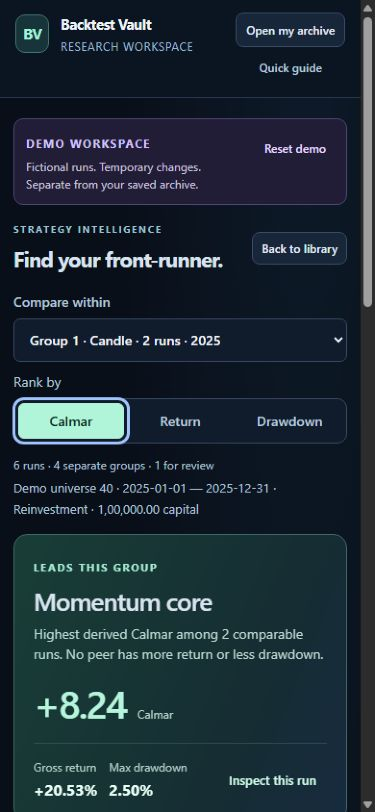
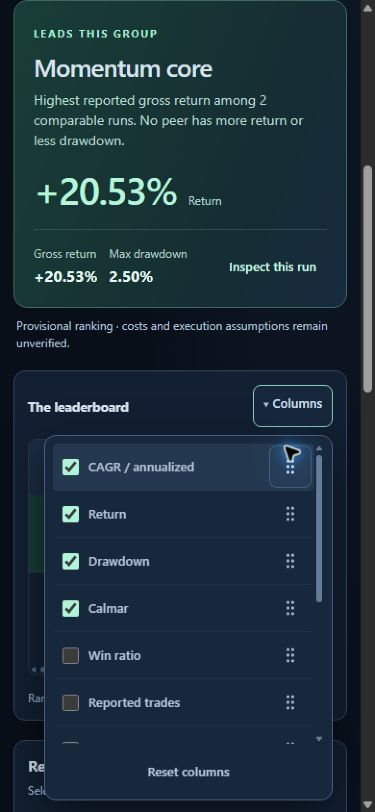
Simplify comparison controls and add mouse drag column ordering

diff --git a/dist/intelligence-ui.js b/dist/intelligence-ui.js
@@ -10,6 +10,74 @@ const measures={calmar:{label:'Calmar',kind:'number',direction:'Higher is better
 const nameOf=x=>x.run.name||x.run.id;
 const num=(value,kind='number',signed=false)=>cell(value,kind,signed).text;
 function disclosure(title,id){const d=el('details');d.id=id;d.append(el('summary',title));return d;}
+function picker(title,id){
+ const d=disclosure(title,id);d.className='compact-picker';const summary=d.firstChild;summary.id=id+'-toggle';
+ d.onkeydown=e=>{if(e.key==='Escape'){e.preventDefault();d.open=false;summary.focus({preventScroll:true});}};
+ d.onfocusout=e=>{if(e.relatedTarget&&!d.contains(e.relatedTarget))d.open=false;};
+ d.addEventListener('toggle',()=>{
+  if(!d.open)return;const panel=d.querySelector('.picker-panel'),r=summary.getBoundingClientRect(),below=innerHeight-r.bottom-16,above=r.top-16;
+  const upward=below<Math.min(panel.scrollHeight,420)&&above>below;panel.classList.toggle('opens-up',upward);panel.style.setProperty('--menu-room',Math.max(140,upward?above:below)+'px');
+ });
+ return d;
+}
+document.addEventListener('pointerdown',e=>{document.querySelectorAll('.compact-picker[open]').forEach(d=>{if(!d.contains(e.target))d.open=false;});});
+function grip(){
+ // Lucide grip-vertical, ISC; attribution is included in LICENSE.
+ const svg=document.createElementNS('http://www.w3.org/2000/svg','svg');
+ for(const [k,v] of Object.entries({viewBox:'0 0 24 24',width:20,height:20,fill:'none',stroke:'currentColor','stroke-width':2,'stroke-linecap':'round','stroke-linejoin':'round','aria-hidden':'true'}))svg.setAttribute(k,v);
+ for(const [x,y] of [[9,12],[9,5],[9,19],[15,12],[15,5],[15,19]]){const c=document.createElementNS(svg.namespaceURI,'circle');c.setAttribute('cx',x);c.setAttribute('cy',y);c.setAttribute('r','1');svg.append(c);}return svg;
+}
+let cancelColumnDrag=null;
+function columnDrag(handle,{key,axis,peers,scroller,commit}){
+ let suppressClick=false;
+ handle.addEventListener('click',e=>{if(suppressClick){suppressClick=false;if(e.detail>0){e.preventDefault();e.stopImmediatePropagation();}}},true);
+ handle.onpointerdown=e=>{
+  if(e.button!==0||e.isPrimary===false||(axis==='x'&&e.pointerType==='touch'))return;
+  cancelColumnDrag?.();suppressClick=false;
+  const controller=new AbortController(),options={signal:controller.signal},source=peers().find(n=>n.dataset.column===key),start={x:e.clientX,y:e.clientY};
+  let active=false,ghost=null,marker=null,frame=0,last=e,before=undefined,valid=false;
+  const rect=()=>scroller.getBoundingClientRect(),coordinate=p=>axis==='x'?p.clientX:p.clientY;
+  const clean=()=>{controller.abort();if(frame)cancelAnimationFrame(frame);ghost?.remove();marker?.remove();source.classList.remove('column-drag-source');document.body.classList.remove('column-dragging');if(scroller.hasPointerCapture?.(e.pointerId))scroller.releasePointerCapture(e.pointerId);cancelColumnDrag=null;};
+  const finish=(save=false)=>{
+   const changed=active&&valid,anchor=before;clean();
+   if(active)suppressClick=true;
+   if(save&&changed)commit(anchor);
+  };
+  cancelColumnDrag=()=>finish();
+  function position(){
+   if(!active)return;
+   const bounds=rect(),p=coordinate(last),nodes=peers().filter(n=>n!==source),cross=axis==='x'?last.clientY:last.clientX;
+   const hit=axis==='x'?source.getBoundingClientRect():bounds;
+   valid=cross>=(axis==='x'?hit.top:hit.left)-24&&cross<=(axis==='x'?hit.bottom:hit.right)+24&&p>=(axis==='x'?bounds.left:bounds.top)-40&&p<=(axis==='x'?bounds.right:bounds.bottom)+40;
+   const target=nodes.find(n=>{const r=n.getBoundingClientRect();return p<(axis==='x'?r.left+r.width/2:r.top+r.height/2);});
+   before=target?.dataset.column||null;
+   const edge=(target||nodes.at(-1))?.getBoundingClientRect();marker.hidden=!valid||!edge;
+   if(edge){const at=target?(axis==='x'?edge.left:edge.top):(axis==='x'?edge.right:edge.bottom);Object.assign(marker.style,axis==='x'?{left:at+'px',top:source.getBoundingClientRect().top+'px',height:source.getBoundingClientRect().height+'px',width:'3px'}:{left:bounds.left+'px',top:at+'px',width:bounds.width+'px',height:'3px'});}
+   ghost.style.left=Math.min(Math.max(8,last.clientX-(axis==='x'?30:ghost.offsetWidth-22)),innerWidth-ghost.offsetWidth-8)+'px';ghost.style.top=(last.clientY-22)+'px';
+  }
+  function autoScroll(){
+   if(!active)return;
+   const r=rect(),p=coordinate(last),lo=axis==='x'?r.left:r.top,hi=axis==='x'?r.right:r.bottom;
+   const speed=valid?(p<lo+32?-Math.min(14,(lo+32-p)/3):p>hi-32?Math.min(14,(p-hi+32)/3):0):0;
+   if(speed){if(axis==='x')scroller.scrollLeft+=speed;else scroller.scrollTop+=speed;position();}
+   frame=requestAnimationFrame(autoScroll);
+  }
+  window.addEventListener('pointermove',p=>{
+   if(p.pointerId!==e.pointerId)return;last=p;
+   if(!active&&Math.hypot(p.clientX-start.x,p.clientY-start.y)<7)return;
+   if(!active){active=true;scroller.setPointerCapture?.(e.pointerId);source.classList.add('column-drag-source');document.body.classList.add('column-dragging');
+    ghost=el('div',source.textContent,'column-drag-ghost');ghost.setAttribute('aria-hidden','true');ghost.style.width=(axis==='x'?Math.max(120,source.getBoundingClientRect().width):source.getBoundingClientRect().width)+'px';
+    marker=el('div',undefined,'column-drop-marker');marker.setAttribute('aria-hidden','true');document.body.append(ghost,marker);frame=requestAnimationFrame(autoScroll);
+   }
+   p.preventDefault();position();
+  },{...options,passive:false});
+  window.addEventListener('pointerup',p=>{if(p.pointerId===e.pointerId){last=p;if(active){p.preventDefault();position();}finish(true);}},{...options,passive:false});
+  window.addEventListener('pointercancel',p=>{if(p.pointerId===e.pointerId)finish();},options);
+  scroller.addEventListener('lostpointercapture',()=>finish(),options);
+  window.addEventListener('blur',()=>finish(),options);
+  document.addEventListener('keydown',p=>{if(p.key==='Escape'){p.preventDefault();p.stopImmediatePropagation();finish();}}, {...options,capture:true});
+ };
+}
 const tableColumns=[
  {key:'rank',label:'Rank',numeric:true,value:r=>r.rank,kind:'count',required:true},
  {key:'strategy',label:'Strategy & test conditions',value:r=>nameOf(r.item),required:true},
@@ -33,35 +101,30 @@ function tablePreferences(value){
  const visible=Array.isArray(value?.visible)?value.visible.filter(k=>keys.includes(k)):defaultColumns;
  return {order,visible:[...new Set(['rank','strategy',...visible])]};
 }
-function strategyTable({ordered,basis,all=false,showAll,onOpen,onGroup,onMore,leaders=[],canLead=false,state,onChange}){
+function strategyTable({ordered,basis,all=false,showAll,onOpen,onGroup,onMore,leaders=[],canLead=false,state,onChange,toolbar}){
  const container=el('div',undefined,'strategy-table-tools'),prefs=state.preferences,m=measures[basis],name=all?'All runs ranking':'Strategy ranking';
  const columns=prefs.order.map(key=>tableColumns.find(c=>c.key===key)),shown=columns.filter(c=>prefs.visible.includes(c.key));
- const config=disclosure('Columns · '+shown.length+' of '+columns.length,'strategy-columns');
- config.append(el('p','Choose columns for both comparison views. Move a checked column left or right. Rank and strategy stay visible. '+(state.demo?'Demo choices last until reload.':'Choices are saved on this browser.'),'mini'));
+ const config=picker('Columns','strategy-columns'),panel=el('div',undefined,'picker-panel column-panel');
+ const help=el('p','Drag to reorder. With a handle focused, use Arrow Up or Arrow Down. Rank and strategy stay first.','sr-only');help.id='column-drag-help';panel.append(help);
  const list=el('div',undefined,'column-options');
+ function move(key,before,focusId){
+  const order=prefs.order.filter(k=>k!==key),index=before?order.indexOf(before):order.length;order.splice(Math.max(2,index),0,key);
+  if(order.join()===prefs.order.join())return;
+  prefs.order=order;state.announcement=tableColumns.find(c=>c.key===key).label+' moved.';onChange(focusId,true);
+ }
  columns.filter(c=>!c.required).forEach(c=>{
-  const row=el('div',undefined,'column-option'),label=el('label'),check=el('input');check.type='checkbox';check.id='column-'+c.key;check.checked=prefs.visible.includes(c.key);
+  const row=el('div',undefined,'column-option'),label=el('label'),check=el('input');row.dataset.column=c.key;check.type='checkbox';check.id='column-'+c.key;check.checked=prefs.visible.includes(c.key);
   check.onchange=()=>{prefs.visible=check.checked?[...prefs.visible,c.key]:prefs.visible.filter(k=>k!==c.key);if(!check.checked&&state.sort?.key===c.key)state.sort=null;onChange(check.id,true);};
   label.append(check,el('span',c.label));row.append(label);
-  const index=shown.findIndex(x=>x.key===c.key);
-  for(const [step,text] of [[-1,'Left'],[1,'Right']]){
-   const move=button(text,()=>{
-    const neighbor=shown[index+step].key,a=prefs.order.indexOf(c.key),b=prefs.order.indexOf(neighbor);[prefs.order[a],prefs.order[b]]=[prefs.order[b],prefs.order[a]];
-    onChange('column-'+c.key,true);
-   },'quiet column-move');
-   move.id='column-'+c.key+'-'+text.toLowerCase();move.setAttribute('aria-label','Move '+c.label+' '+text.toLowerCase());
-   move.disabled=index<2||index+step<2||index+step>=shown.length;row.append(move);
-  }
+  const handle=button(undefined,()=>{},'quiet column-grip');handle.id='column-grip-'+c.key;handle.setAttribute('aria-label','Reorder '+c.label);handle.setAttribute('aria-describedby',help.id);handle.append(grip());
+  handle.onkeydown=e=>{const keys=prefs.order.slice(2),i=keys.indexOf(c.key),dest=e.key==='ArrowUp'?i-1:e.key==='ArrowDown'?i+1:e.key==='Home'?0:e.key==='End'?keys.length-1:null;if(dest===null)return;e.preventDefault();if(dest<0||dest>=keys.length||dest===i)return;const rest=keys.filter(k=>k!==c.key);move(c.key,rest[dest]||null,handle.id);};
+  columnDrag(handle,{key:c.key,axis:'y',peers:()=>[...list.children],scroller:list,commit:before=>move(c.key,before,handle.id)});row.append(handle);
   list.append(row);
  });
- config.append(list);const reset=button('Reset columns',()=>{state.preferences=tablePreferences(null);state.sort=null;onChange('columns-reset',true);},'quiet');reset.id='columns-reset';config.append(reset);
- container.append(config);
- const status=el('div',undefined,'table-order'),description=el('p',undefined,'mini');description.id='strategy-table-order';description.setAttribute('role','status');
+ panel.append(list);const reset=button('Reset columns',()=>{state.preferences=tablePreferences(null);state.sort=null;onChange('columns-reset',true);},'quiet');reset.id='columns-reset';panel.append(reset);config.append(panel);toolbar.append(config);
+ const description=el('p',undefined,'sr-only');description.id='strategy-table-order';description.setAttribute('role','status');
  const sortedColumn=tableColumns.find(c=>c.key===state.sort?.key);
- description.textContent=sortedColumn?'Display: '+sortedColumn.label+' · '+state.sort.direction+'. Ranks still use '+m.label+'.':'Display: ranking order · '+m.label+'. Click a column heading to sort.';
- status.append(description);
- if(state.sort){const resetSort=button('Ranking order',()=>{state.sort=null;onChange('strategy-sort-rank');},'quiet');status.append(resetSort);}
- container.append(status,el('p','Scroll sideways for more columns. Missing values stay last.','mini table-scroll-hint'));
+ description.textContent=(state.announcement||'')+' '+(sortedColumn?'Sorted by '+sortedColumn.label+', '+state.sort.direction+'. Ranks use '+m.label+'.':'Ranking order.');state.announcement='';container.append(description);
  const wrap=el('div',undefined,'table-wrap');wrap.tabIndex=0;wrap.setAttribute('role','region');wrap.setAttribute('aria-label',name+' · scrollable table');
  const t=el('table',undefined,'rank-table'+(all?' all-runs-table':''));t.setAttribute('aria-label',name);t.setAttribute('aria-describedby','strategy-table-order');t.dataset.basis=basis;
  t.style.minWidth=((all?320:240)+Math.max(0,shown.length-2)*(all?125:90))+'px';
@@ -71,6 +134,7 @@ function strategyTable({ordered,basis,all=false,showAll,onOpen,onGroup,onMore,le
   const active=state.sort?.key===c.key;th.setAttribute('aria-sort',active?state.sort.direction:!state.sort&&c.key==='rank'?'ascending':'none');
   const sort=button(c.label,()=>{state.sort={key:c.key,direction:active&&state.sort.direction==='ascending'?'descending':'ascending'};onChange('strategy-sort-'+c.key,false,true);},'table-sort');
   sort.id='strategy-sort-'+c.key;sort.setAttribute('aria-label',c.label);sort.title=c.label+' · click to sort '+(active&&state.sort.direction==='ascending'?'descending':'ascending');th.append(sort);tr.append(th);
+  if(!c.required){th.classList.add('movable-column');columnDrag(sort,{key:c.key,axis:'x',peers:()=>[...tr.children].filter(n=>!['rank','strategy'].includes(n.dataset.column)),scroller:wrap,commit:before=>move(c.key,before,sort.id)});}
  });head.append(tr);t.append(head);
  // Display sorting never recomputes financial ranks, leaders or chart order.
  const display=sortedColumn?[...ordered].sort((a,b)=>P.compareValues(sortedColumn.value(a),sortedColumn.value(b),state.sort.direction)):ordered;
@@ -214,8 +278,8 @@ function drawOverview({target,o,basis,b,limit,showAll,onOpen,onGroup,onMore,tabl
  target.append(el('p','Every run in this comparison is included. Use a matched group for a fairer ranking. Results are never added or averaged into a combined portfolio.'+(limit!==null?' Drawdown ceiling: '+num(limit,'percent')+'.':''),'ranking-caution'));
  if(o.mixedData)target.append(el('p','Fictional runs are visible but excluded from ordering alongside real research.','issues'));
  const grid=el('div',undefined,'ranking-grid all-runs-grid'),board=el('section',undefined,'rank-board reveal'),head=el('div',undefined,'panel-heading');
- head.append(el('h3','All strategies, together'),el('span',m.label+' · '+m.direction.toLowerCase(),'mini'));board.append(head);
- board.append(strategyTable({ordered,basis,all:true,showAll,onOpen,onGroup,onMore,state:tableState,onChange:onTableChange}));
+ head.append(el('h3','All strategies, together'));board.append(head);
+ board.append(strategyTable({ordered,basis,all:true,showAll,onOpen,onGroup,onMore,state:tableState,onChange:onTableChange,toolbar:head}));
  board.append(el('p','Equal values share a rank. Review flags, repeats, missing values and ceiling failures stay unranked.','mini'));
  const plotted=o.items.filter(x=>x.rankEligible&&Number.isFinite(x.returns)&&Number.isFinite(x.drawdown)),chart=riskChart({items:plotted},[],b,{all:true,state:chartState,onOpen});
  chart.append(el('p',plotted.length+' of '+o.total+' saved runs plotted. Review flags, repeated results and mixed fictional data are omitted. Different periods make this an exploratory map.','mini'));
@@ -240,11 +304,13 @@ function render({target,runs,benchmarks=[],store,table,onOpen,onExit,onNotice,on
  let preferenceWrite=Promise.resolve(),hasRendered=false;
  function onTableChange(focusId,persist=false,sorted=false){
   tableState.scrollLeft=target.querySelector('.rank-table')?.parentElement.scrollLeft||0;
+  tableState.columnScrollTop=target.querySelector('.column-options')?.scrollTop||0;
   if(sorted)showAll=true;
   if(persist){const snapshot=JSON.parse(JSON.stringify(tableState.preferences));preferenceWrite=preferenceWrite.then(()=>store.putTablePreferences?.(snapshot)).catch(()=>onNotice('Column choices apply for this visit, but could not be saved on this browser.',true));}
   draw(focusId);
  }
  function draw(focusId){
+  cancelColumnDrag?.();
   target.classList.toggle('analysis-updated',hasRendered);hasRendered=true;
   target.querySelectorAll('details[id]').forEach(d=>{if(d.open)openDetails.add(d.id);else openDetails.delete(d.id);});
   const a=I.analyze(runs,{drawdownLimit:limit});if(groupKey!=='all'&&!a.groups.some(g=>g.key===groupKey))groupKey=[...a.groups].sort((x,y)=>y.items.length-x.items.length)[0]?.key||'all';
@@ -252,7 +318,15 @@ function render({target,runs,benchmarks=[],store,table,onOpen,onExit,onNotice,on
   target.replaceChildren();const head=el('div',undefined,'comparison-intro'),heading=el('div');heading.append(el('p','STRATEGY INTELLIGENCE','eyebrow'),el('h2','Find your front-runner.'));head.append(heading,button('Back to library',onExit));target.append(head);
   const toolbar=el('div',undefined,'ranking-toolbar'),groupLabel=el('label','Compare within'),groupSelect=el('select');groupSelect.id='ranking-group';groupSelect.setAttribute('aria-label','Comparison group');
   a.groups.forEach((x,i)=>groupSelect.append(new Option('Group '+(i+1)+' · '+x.controls['Momentum chart']+' · '+x.items.length+(x.items.length===1?' run':' runs')+' · '+x.controls.From.slice(0,4),x.key)));groupSelect.append(new Option('All runs · '+runs.length+' · exploratory','all'));if(!groupKey)groupKey='all';groupSelect.value=groupKey;groupSelect.disabled=!runs.length;groupSelect.onchange=()=>{groupKey=groupSelect.value;showAll=false;tableState.sort=null;draw('ranking-group');};groupLabel.append(groupSelect);toolbar.append(groupLabel);
-  const by=el('div',undefined,'rank-by');by.append(el('span','Rank by','control-label'));const choices=el('div',undefined,'rank-switch');choices.setAttribute('role','group');choices.setAttribute('aria-label','Rank strategies by');for(const [key,m] of Object.entries(measures)){const choose=button(m.label,()=>{basis=key;showAll=false;tableState.sort=null;draw('rank-'+key);},'quiet');choose.id='rank-'+key;choose.setAttribute('aria-pressed',String(key===basis));choices.append(choose);}by.append(choices);toolbar.append(by);target.append(toolbar);
+  const by=el('div',undefined,'rank-by');by.append(el('span','Rank by','control-label'));
+  const rankPicker=picker(measures[basis].label,'ranking-picker'),choices=el('div',undefined,'picker-panel ranking-choices');choices.setAttribute('role','group');choices.setAttribute('aria-label','Rank strategies by');
+  for(const [key,m] of Object.entries(measures)){
+   const choose=button(undefined,()=>{rankPicker.open=false;basis=key;showAll=false;tableState.sort=null;draw('ranking-picker-toggle');},'quiet');choose.id='rank-'+key;choose.setAttribute('aria-label',m.label);choose.setAttribute('aria-pressed',String(key===basis));choose.append(el('span',m.label),el('small',m.direction));choices.append(choose);
+  }
+  rankPicker.firstChild.setAttribute('aria-label','Rank by '+measures[basis].label);
+  rankPicker.firstChild.onkeydown=e=>{if(e.key==='ArrowDown'){e.preventDefault();rankPicker.open=true;document.getElementById('rank-'+basis).focus();}};
+  choices.onkeydown=e=>{const buttons=[...choices.children],index=buttons.indexOf(document.activeElement);if(index<0)return;const next=e.key==='ArrowDown'?(index+1)%buttons.length:e.key==='ArrowUp'?(index+buttons.length-1)%buttons.length:null;if(next!==null){e.preventDefault();buttons[next].focus();}};
+  rankPicker.append(choices);by.append(rankPicker);toolbar.append(by);target.append(toolbar);
   target.append(el('p',runs.length+' runs · '+a.groups.length+' separate groups · '+a.blocked.length+' for review'+(a.duplicates.length?' · '+a.duplicates.length+' repeated results':''),'ranking-scope'));
   if(all&&runs.length){
    drawOverview({target,o,basis,b,limit,showAll,onOpen,table,chartState,tableState,onTableChange,onGroup:key=>{groupKey=key;showAll=false;tableState.sort=null;draw('ranking-group');},onMore:()=>{showAll=!showAll;draw('rank-more');}});
@@ -269,11 +343,11 @@ function render({target,runs,benchmarks=[],store,table,onOpen,onExit,onNotice,on
    else{title=nameOf(lead);why=basis==='drawdown'?'Lowest reported drawdown among '+valid.length+' comparable runs.':'Highest '+(basis==='calmar'?'derived Calmar':'reported gross return')+' among '+valid.length+' comparable runs.';
     if(g.items.every(x=>x===lead||lead.returns>=x.returns&&lead.drawdown<=x.drawdown)&&g.items.some(x=>x!==lead&&(lead.returns>x.returns||lead.drawdown<x.drawdown)))why+=' No peer has more return or less drawdown.';if(lead.returns<=0)why+=' Its return is not positive.';}
    message.append(el('h3',title),el('p',why));hero.append(message);
-   if(lead){const score=el('div',undefined,'hero-score');score.append(el('span',m.label),el('strong',num(lead[basis],m.kind,basis!=='drawdown')),el('small',m.direction));hero.append(score);
+   if(lead){const score=el('div',undefined,'hero-score');score.append(el('span',m.label),el('strong',num(lead[basis],m.kind,basis!=='drawdown')));hero.append(score);
     const stats=el('div',undefined,'hero-facts');for(const [label,value,signed] of [['Gross return',lead.returns,true],['Max drawdown',lead.drawdown,false]]){const s=el('span');s.append(el('small',label),el('strong',num(value,'percent',signed)));stats.append(s);}stats.append(button('Inspect this run',()=>onOpen(lead.run),'quiet'));hero.append(stats);}
    target.append(hero,el('p','Provisional ranking · costs and execution assumptions remain unverified.','ranking-caution'));
-   const grid=el('div',undefined,'ranking-grid'),board=el('section',undefined,'rank-board reveal'),boardHead=el('div',undefined,'panel-heading');boardHead.append(el('h3','The leaderboard'),el('span',m.label+' · '+m.direction.toLowerCase(),'mini'));board.append(boardHead);
-   board.append(strategyTable({ordered,basis,showAll,onOpen,leaders,canLead,state:tableState,onChange:onTableChange,onMore:()=>{showAll=!showAll;draw('rank-more');}}),el('p','Ranks stay within this group. Equal values share a rank.','mini'));
+   const grid=el('div',undefined,'ranking-grid'),board=el('section',undefined,'rank-board reveal'),boardHead=el('div',undefined,'panel-heading');boardHead.append(el('h3','The leaderboard'));board.append(boardHead);
+   board.append(strategyTable({ordered,basis,showAll,onOpen,leaders,canLead,state:tableState,onChange:onTableChange,toolbar:boardHead,onMore:()=>{showAll=!showAll;draw('rank-more');}}),el('p','Ranks stay within this group. Equal values share a rank.','mini'));
    grid.append(board,riskChart(g,canLead?leaders:[],b,{state:chartState,onOpen}));target.append(grid);
    const reference=el('section',undefined,'benchmark-brief reveal');reference.append(el('span','BUY & HOLD','eyebrow'));
    if(!bm.available)reference.append(el('h3','Add Nifty to the picture.'),el('p',bm.reason||'Choose a benchmark in Filters & benchmark.','muted'));
@@ -313,7 +387,7 @@ function render({target,runs,benchmarks=[],store,table,onOpen,onExit,onNotice,on
    }
    const rows=[['Group','Run','Aligned controls','Gross return (%)','Source CAGR (%)','Max drawdown (%)','Derived Calmar','Drawdown ceiling met','Dominated by','Reference','Reference basis','Reference source','Benchmark from','Benchmark to','Benchmark return (%)','Excess gross return (pp)','Benchmark caveats','Evidence']];a.groups.forEach((group,i)=>{const ref=I.benchmarkFor(group.items[0],b);group.items.forEach(x=>rows.push([i+1,nameOf(x),Object.entries(group.controls).map(([k,v])=>k+': '+v).join('; '),x.returns,x.cagr,x.drawdown,x.calmar,x.withinLimit,x.dominatedBy.join('; '),b?.name||'',b?.kind||'',b?.source||'',ref.from||'',ref.to||'',ref.returns??'',ref.available?x.returns-ref.returns:'',ref.cautions?.join('; ')||ref.reason||'',x.cautions.join('; ')]));});download('strategy-analysis.csv',root.Vault.csv(rows.map(row=>row.map(v=>typeof v==='number'?Number(v.toFixed(6)):v))),'text/csv;charset=utf-8');
   },'quiet');exportButton.disabled=all?!runs.length:!a.groups.length;target.append(exportButton,el('span',all?'Exports every run, status and setting in this comparison.':'Exports all comparison groups.','mini export-scope'));
-  target.querySelectorAll('details[id]').forEach(d=>{d.open=openDetails.has(d.id);});const tableWrap=target.querySelector('.rank-table')?.parentElement;if(tableWrap)tableWrap.scrollLeft=tableState.scrollLeft||0;if(focusId)document.getElementById(focusId)?.focus({preventScroll:true});
+  target.querySelectorAll('details[id]').forEach(d=>{d.open=openDetails.has(d.id);});const tableWrap=target.querySelector('.rank-table')?.parentElement;if(tableWrap)tableWrap.scrollLeft=tableState.scrollLeft||0;const columnList=target.querySelector('.column-options');if(columnList)columnList.scrollTop=tableState.columnScrollTop||0;if(focusId){const focused=document.getElementById(focusId);focused?.focus({preventScroll:true});if(focused?.classList.contains('column-grip')&&columnList){const r=focused.getBoundingClientRect(),bounds=columnList.getBoundingClientRect();if(r.top<bounds.top)columnList.scrollTop+=r.top-bounds.top;else if(r.bottom>bounds.bottom)columnList.scrollTop+=r.bottom-bounds.bottom;}}
  }
  draw();
 }

diff --git a/dist/vault.css b/dist/vault.css
@@ -36,10 +36,16 @@ main{max-width:1720px;margin:auto;padding:28px 36px}.heading{display:flex;justif
 .rank-table :is(th,td)[data-column]{display:table-cell}.rank-board .table-wrap{border-radius:8px;border:1px solid var(--line)}
 .rank-table:not(.all-runs-table) td[data-column=strategy]{width:170px;min-width:150px}
 @media(max-width:1250px){.ranking-grid{grid-template-columns:minmax(0,1fr)}}
-.strategy-table-tools{min-width:0}#strategy-columns{background:#101d2d;border-color:#3b506c;padding:12px 15px;margin:0 0 12px}#strategy-columns>summary{font-size:.8125rem;min-height:24px}#strategy-columns>p{color:var(--muted);margin:4px 0 14px}.column-options{display:grid;grid-template-columns:repeat(2,minmax(0,1fr));gap:6px 18px}.column-option{display:flex;align-items:center;gap:5px;min-width:0;border-bottom:1px solid var(--line)}.column-option>label{flex:1;display:flex;align-items:center;gap:9px;font-size:.8125rem;min-height:44px}.column-option input{display:inline-block;width:17px;height:17px;min-height:0;margin:0;flex-shrink:0}.column-move{font-size:.75rem;padding:6px 9px;min-height:36px}.column-move:disabled{background:transparent;border-color:transparent;color:#7387a1}#columns-reset{margin-top:10px}.table-order{display:flex;align-items:center;justify-content:space-between;gap:10px;min-height:42px}.table-order p{margin:5px 0;color:#bad0e8}.table-order button{min-height:36px;padding:5px 10px;font-size:.75rem}.table-scroll-hint{color:var(--muted);margin:0 0 10px}.strategy-table-tools>#rank-more{margin-top:10px}
-@media(max-width:1100px){.column-options{grid-template-columns:1fr}}
-@media(max-width:640px){.map-metrics>div{padding:10px}.map-metrics dt{font-size:.7rem}.map-settings{grid-template-columns:1fr;gap:10px}.map-settings dd{font-size:.8125rem}.table-order{align-items:flex-start}.column-option>label{font-size:.75rem}.column-move{padding:5px 7px;min-height:44px}.rank-table th[data-column=rank]{width:60px}.rank-table td[data-column=strategy]{width:260px}.map-index .mini,.map-inspector .mini{font-size:.75rem}}
-@media print{.strategy-table-tools>details,.table-order,.table-scroll-hint{display:none}.table-sort{display:inline!important}.table-sort::after{display:none}.map-metrics>div{background:#f1f5f8;color:#172536}.map-metrics dt,.map-metrics dd,.map-settings dt,.map-settings dd{color:#172536}}
+.strategy-table-tools{min-width:0}.strategy-table-tools>#rank-more{margin-top:10px}
+.sr-only{position:absolute!important;width:1px;height:1px;padding:0;margin:-1px;overflow:hidden;clip-path:inset(50%);white-space:nowrap;border:0}
+.ranking-toolbar{position:relative}.ranking-toolbar:has(.compact-picker[open]){z-index:6}.rank-board:has(.compact-picker[open]){position:relative;z-index:4}.rank-board>.panel-heading{align-items:center;flex-direction:row;gap:12px;margin-bottom:12px}
+.compact-picker{position:relative;margin:0;padding:0;border:0;flex-shrink:0}.compact-picker>summary{display:list-item;list-style-position:inside;min-height:40px;box-sizing:border-box;padding:8px 13px;border:1px solid #435774;border-radius:8px;background:#17283d;font-size:.8125rem;}.compact-picker>summary::marker{color:#a7bdd6;font-size:.7em}.compact-picker[open]>summary{margin:0;border-color:#8bd5bf}.compact-picker>summary:hover{background:#20364e}.compact-picker>summary:focus-visible{outline:2px solid #b5e4ff;outline-offset:3px}
+#ranking-picker{min-width:170px}#ranking-picker>summary{min-height:44px}.picker-panel{position:absolute;right:0;top:calc(100% + 8px);z-index:20;width:300px;max-width:calc(100vw - 48px);box-sizing:border-box;background:#18283c;border:1px solid #4a6380;border-radius:12px;box-shadow:0 16px 45px #0008;padding:8px}.picker-panel.opens-up{top:auto;bottom:calc(100% + 8px)}.ranking-choices{width:240px}.ranking-choices>button{display:flex;flex-direction:column;align-items:flex-start;gap:3px;width:100%;padding:12px;text-align:left;border-radius:7px;min-height:62px}.ranking-choices small{font-size:.75rem;color:#aebfd5;font-weight:400}.ranking-choices [aria-pressed=true]{background:#254a43;color:#c7f8e6}.ranking-choices [aria-pressed=true] small{color:#b4dbcc}
+.column-options{max-height:min(52vh,440px,calc(var(--menu-room,600px) - 72px));overflow:auto;overscroll-behavior:contain;scrollbar-width:thin;scrollbar-color:#667d98 transparent}.column-option{display:flex;align-items:center;min-height:48px;gap:8px;border-bottom:1px solid #3b50664d;border-radius:5px;padding:0 3px 0 10px}.column-option:hover{background:#24394f}.column-option>label{flex:1;display:flex;align-items:center;gap:10px;font-size:.8125rem;min-height:48px;cursor:pointer}.column-option input{display:inline-block;width:17px;height:17px;min-height:0;margin:0;flex-shrink:0;accent-color:#b0f4da}.column-grip{padding:10px;min-height:44px;min-width:44px;touch-action:none;cursor:grab;color:#9db2cc}.column-grip:hover{color:#d4e8ff}#columns-reset{margin-top:8px;width:100%;font-size:.8125rem;min-height:40px}
+.movable-column .table-sort{cursor:grab;touch-action:auto}.column-dragging,.column-dragging *{cursor:grabbing!important;user-select:none!important}.column-drag-source{opacity:.3}.column-drag-ghost{position:fixed;z-index:1000;pointer-events:none;box-sizing:border-box;padding:13px 16px;border:1px solid #9fe6ce;border-radius:8px;background:#25483f;color:#e2fff3;box-shadow:0 12px 30px #0007;font-size:.8125rem;font-weight:600}.column-drop-marker{position:fixed;z-index:999;background:#abf4d8;border-radius:2px;pointer-events:none}
+@media(hover:hover){th[aria-sort=none] .table-sort:not(:hover):not(:focus-visible)::after{visibility:hidden}}
+@media(max-width:640px){.map-metrics>div{padding:10px}.map-metrics dt{font-size:.7rem}.map-settings{grid-template-columns:1fr;gap:10px}.map-settings dd{font-size:.8125rem}.rank-table th[data-column=rank]{width:60px}.rank-table td[data-column=strategy]{width:260px}.map-index .mini,.map-inspector .mini{font-size:.75rem}.rank-board>.panel-heading h3{font-size:.875rem}.compact-picker>summary{min-height:44px;padding:8px 10px;gap:8px}.ranking-choices{width:100%}.column-panel{max-width:calc(100vw - 52px)}}
+@media print{.compact-picker{display:none}.table-sort{display:inline!important}.table-sort::after{display:none}.map-metrics>div{background:#f1f5f8;color:#172536}.map-metrics dt,.map-metrics dd,.map-settings dt,.map-settings dd{color:#172536}}
 @media(max-width:640px){.analysis-mode .comparison-intro{flex-direction:row;align-items:center;gap:12px;margin-bottom:18px}.analysis-mode .comparison-intro h2{font-size:1.35rem}.analysis-mode .comparison-intro .eyebrow{font-size:.625rem}.analysis-mode .comparison-intro>button{flex-shrink:0;font-size:.75rem;padding:7px 9px;min-height:34px}.analysis-mode .demo-banner{margin-bottom:18px}.ranking-toolbar{gap:10px}.ranking-context{margin-bottom:14px}}
 @media(max-width:640px){.risk-map .map-axis,.risk-map .map-caption,.risk-map .map-leader-label{font-size:18px}}
 @media(prefers-reduced-motion:reduce){.reveal,.map-dot{animation:none!important;transform:none!important}}

diff --git a/dist/index.html b/dist/index.html
@@ -10,7 +10,7 @@
 <section class="filters" aria-label="Filter and sort backtests"><label>Find a run<input id="search" type="search" placeholder="Search names, settings, notes…"></label><label>Period & universe<select id="cohort"><option value="">All periods & universes</option></select></label><label>Sort by<select id="sort"><option value="savedAt">Recently saved</option><option value="returns">Gross return · highest</option><option value="drawdown">Max drawdown · lowest</option><option value="growth">CAGR / annualized · highest</option><option value="trades">Trade count · highest</option></select></label><label>Max drawdown (%)<input id="risk" type="number" min="0" step="0.5" placeholder="Any"></label><button id="clear-filters" class="quiet">Clear filters</button></section>
 <div class="workspace"><section class="library" aria-label="Saved runs"><div class="section-top"><div><h2>Saved runs</h2><p id="count" class="count" aria-live="polite">Loading your library…</p></div><span class="mini">Select to compare</span></div><div id="list"></div><div class="selection-bar"><button id="compare" class="primary" disabled>Compare selected (0)</button><button id="clear-selection" class="quiet" disabled>Clear</button><span id="selection-note" class="mini">Select two or more runs.</span></div></section>
 <section id="detail" class="detail" aria-label="Run details" tabindex="-1"><div class="empty"><p class="eyebrow">YOUR FIRST RUN STARTS HERE</p><h2>Keep the evidence<br>behind every result.</h2><p>Run a momentum and portfolio backtest on Definedge, then choose <strong>Save backtest</strong>. Your settings, statistics, charts and trades will be waiting here.</p><div class="empty-actions"><a href="?demo=1" class="button primary">Explore the demo</a><button id="empty-import" class="secondary">Import a backup</button></div><p class="mini">A backup is a complete JSON archive. It stays on your device.</p></div></section></div>
-<footer><span>BACKTEST VAULT <span class="version">v0.6.0 · Preview</span></span><p>Compare the same dates and universe. Historical results do not guarantee future returns. Original metric labels are preserved.</p><span>LOCAL BY DESIGN</span></footer>
+<footer><span>BACKTEST VAULT <span class="version">v0.6.1 · Preview</span></span><p>Compare the same dates and universe. Historical results do not guarantee future returns. Original metric labels are preserved.</p><span>LOCAL BY DESIGN</span></footer>
 </main>
 <dialog id="guide" aria-labelledby="guide-title"><div class="dialog-head"><p class="eyebrow">QUICK GUIDE</p><button id="close-guide" class="quiet" aria-label="Close quick guide">Close</button></div><h2 id="guide-title">From backtest to evidence.</h2><ol class="guide-steps"><li><strong>Save a completed report</strong><p>Run momentum and portfolio backtests on Definedge. Choose Save backtest after the report finishes.</p></li><li><strong>Inspect the full picture</strong><p>Open a run for statistics, numbered settings, original charts, trades and your notes. Review capture warnings.</p></li><li><strong>Compare like with like</strong><p>Use the same period and universe. Select at least two runs to compare results and changed settings.</p></li><li><strong>Keep an independent backup</strong><p>Back up all saves a JSON file. Import runs combines backups; matching IDs stay unchanged.</p></li></ol><p class="muted">The browser viewer has its own local library. It does not connect to extension storage. Demo mode uses temporary fictional data.</p></dialog>
 <script src="core.js"></script><script src="demo.js"></script><script src="storage.js"></script><script src="presentation.js"></script><script src="intelligence.js"></script><script src="intelligence-ui.js"></script><script src="dashboard.js"></script></body></html>

diff --git a/README.md b/README.md
@@ -5,7 +5,7 @@
 A local Chrome extension and research workspace for Definedge momentum and portfolio backtests. Save the settings behind a result, compare matching runs, and understand why a strategy leads.
 
 [![Local checks](https://github.com/mamamiya7/backtest-vault/actions/workflows/checks.yml/badge.svg)](https://github.com/mamamiya7/backtest-vault/actions/workflows/checks.yml)
-**v0.6.0 preview** · Chrome · Local storage · MIT · No cloud account
+**v0.6.1 preview** · Chrome · Local storage · MIT · No cloud account
 
 ![Visual strategy leaderboard with a leading run, ranking table and return-versus-drawdown plot; all data is fictional](docs/images/08-leaderboard.png)
 
@@ -50,9 +50,9 @@ Open the [visual leaderboard](http://127.0.0.1:8767/?demo=1&view=analysis) or th
 
 Six synthetic records demonstrate Candle, P&F, Renko, comparisons, settings, notes and a capture warning. Demo changes stay in memory and reset on reload; imports are disabled. Demo exports use a `demo-` filename prefix and retain each record's `demo: true` marker.
 
-| Inspect the settings | Use the ranking on a phone |
+| Inspect the settings | Arrange columns on a phone |
 | --- | --- |
-| ![Numbered periods, EMA and strategy settings in the fictional demo](docs/images/02-settings.png) | <img src="docs/images/09-leaderboard-mobile.png" width="260" alt="Mobile ranking showing fictional strategies, a leading-run explanation and the chosen metric"> |
+| ![Numbered periods, EMA and strategy settings in the fictional demo](docs/images/02-settings.png) | <img src="docs/images/09-leaderboard-mobile.png" width="260" alt="Mobile Columns menu with visibility checkboxes and drag handles; fictional data"> |
 
 [Three-minute demo walkthrough](docs/DEMO.md)
 
@@ -95,20 +95,24 @@ Choose **Analyze strategies** for the whole library, or **Explain comparison** f
 
 ### Make the table yours
 
-Click a **column heading** once for ascending order and again for descending. The header arrow and display-order note identify the active sort. Sorting includes every run in the current scope, including flagged records with their unranked status. It does not change the selected **Rank by** measure, the leader, or the chart. **Ranking order** restores the financial ordering. Trade-table headings also sort amounts, symbols and dates.
+Click a **column heading** once for ascending order and again for descending. The active heading shows its sort arrow. Sorting includes every run in the current scope, including flagged records with their unranked status. It does not change the selected **Rank by** measure, the leader, or the chart. Choose the current **Rank by** measure again to restore the default order. Trade-table headings also sort amounts, symbols and dates.
 
-Open **Columns** above either strategy table to show or hide metrics and use **Left / Right** to rearrange them. Rank and strategy stay visible. Six columns appear initially; optional choices add win ratio, reported trades, capital, dates, universe and chart model. Choices apply to both matched groups and All runs, and are saved on this browser. Demo choices are temporary. **Reset columns** restores the defaults.
+Drag a **table heading** left or right to move its column. Open **Columns** to show or hide metrics and drag the dotted handles up or down to arrange them. Rank and strategy stay visible. Six columns appear initially; optional choices add win ratio, reported trades, capital, dates, universe and chart model. Choices apply to both matched groups and All runs, and are saved on this browser. Demo choices are temporary. **Reset columns** restores the defaults.
 
 ```mermaid
 flowchart LR
     A["Strategy table"] --> B["Click a heading<br/>Ascending / descending"]
-    A --> C["Columns<br/>Show · hide · move left / right"]
+    A --> H["Drag a table heading<br/>Move a column directly"]
+    H --> E
+    A --> C["Columns<br/>Show / hide<br/>Drag handles up / down"]
     B --> D["Display order changes<br/>Financial ranks stay intact"]
     C --> E["Your local table layout<br/>Shared by both comparison views"]
     D --> F["Original records and full exports unchanged"]
     E --> F
     style C fill:#b2f7dc,stroke:#247456,color:#122b22
 ```
+
+The **Rank by** menu explains the direction for each measure only when opened. Column handles also support Arrow Up / Down and Home / End; Escape cancels a drag or closes a menu.
 
 On phones, the table scrolls sideways so every chosen column remains available. Missing values stay last in both sort directions. Metric cards keep labels and values on the same edge; long settings wrap below their labels.
 
@@ -264,7 +268,7 @@ A pending recovery exists only in that tab's memory. Refreshing or closing the t
 | Candle, P&F and Renko display adapters | Unknown layouts retain individual fields rather than guessed labels |
 | Brief animations respecting reduced motion | Financial values display immediately, without animated counting |
 
-**Validation evidence:** all six local test suites passed for v0.6.0. They cover capture linkage, failed submissions, all trade pages, SVG sanitation, CSV formula safety, imports, formatting, CAGR fallback, comparisons, benchmark checks and demo isolation.
+**Validation evidence:** all six local test suites passed for v0.6.1. They cover capture linkage, failed submissions, all trade pages, SVG sanitation, CSV formula safety, imports, formatting, CAGR fallback, comparisons, benchmark checks and demo isolation.
 
 Five exported live Candle runs previously matched their source evidence. Three P&F and three Renko runs were saved live; exported-archive comparison for that batch is pending. The user confirmed the updated saver works. The current dashboard was checked in a standalone Chrome preview; the installed extension dashboard was not directly inspected by automation.
 
@@ -311,7 +315,7 @@ Read [Contributing](CONTRIBUTING.md), [Security](SECURITY.md), [UI audit](docs/U
 npm run package:public
 ```
 
-This copies an explicit public-file allowlist into `releases/backtest-vault-0.6.0-public/` and writes a hash manifest. Private archives, handoffs, local hosting metadata and dependencies are excluded. An existing package is left intact.
+This copies an explicit public-file allowlist into `releases/backtest-vault-0.6.1-public/` and writes a hash manifest. Private archives, handoffs, local hosting metadata and dependencies are excluded. An existing package is left intact.
 
 ## License and affiliation
 

diff --git a/docs/INTELLIGENCE.md b/docs/INTELLIGENCE.md
@@ -4,9 +4,9 @@ Choose **Analyze strategies** to analyze the full library, or **Explain comparis
 
 ## Table controls
 
-Column headings toggle ascending/descending display order across the current scope; sorting reveals all rows. Missing values stay last. Rank numbers and leader explanations still use the chosen Calmar/Return/Drawdown basis. A flagged result can appear early in a numeric or alphabetical display sort while retaining its unranked status. **Ranking order** restores the financial order.
+Column headings toggle ascending/descending display order across the current scope; sorting reveals all rows. Missing values stay last. Rank numbers and leader explanations still use the chosen Calmar/Return/Drawdown basis. A flagged result can appear early in a numeric or alphabetical display sort while retaining its unranked status. Selecting the current **Rank by** measure again restores the default order. The ranking menu contains the higher/lower-is-better guidance.
 
-**Columns** offers 14 fields, six shown by default. Checkboxes select visible metrics; Left/Right moves visible optional columns. Rank and strategy stay first. Both comparison modes use the same local choices; demo keeps them only in memory. Reset restores defaults. Layout choices are separate from research records and exports. The graph and index continue to follow their selected run, independently of table sorting.
+**Columns** offers 14 fields, six shown by default. Checkboxes select visible metrics. Drag optional table headings horizontally, or drag the dotted handles in Columns vertically. Handles also accept Arrow Up / Down and Home / End; Escape cancels a drag. Rank and strategy stay first. Both comparison modes use the same local choices; demo keeps them only in memory. Reset restores defaults. Layout choices are separate from research records and exports. The graph and index continue to follow their selected run, independently of table sorting.
 
 ## Read the visual ranking
 

diff --git a/docs/UI-AUDIT.md b/docs/UI-AUDIT.md
@@ -1,5 +1,11 @@
 # UI / UX audit
 
+## Compact controls and drag ordering — v0.6.1
+
+The user's follow-up screenshot identified unnecessary column counts, sorting instructions and repeated ranking-direction labels. Removed them from the table surface. Columns is now a compact menu with visibility checkboxes and vertical drag handles. Ranking directions appear inside the Rank by menu. Optional headings can also be dragged directly across the table; fixed identity columns remain first.
+
+Verified real mouse drags in Chrome for both a vertical menu move and a horizontal header move, with unchanged financial ranks and no accidental sort. At 390 × 844, the column menu fitted the viewport and a vertical mouse drag worked without page overflow. The menu chooses above or below its control according to available room. Automated tests cover touch-pointer handling, cancellation, short-click sorting, hidden-column ordering, keyboard moves, shared preferences and source immutability. Touch events in these tests are simulated; a real touch device and screen reader were not exercised. Existing metric alignment and reduced-motion behavior remain unchanged.
+
 ## Alignment and table controls — v0.6.0
 
 **Date:** 2026-09-13. **Goal:** keep each label visibly attached to its value and let readers organize strategy comparisons without changing the underlying ranking.

diff --git a/docs/DEMO.md b/docs/DEMO.md
@@ -1,6 +1,6 @@
 # Three-minute demo
 
-**New table controls:** in All runs, click the Return column heading twice. The display switches ascending then descending while Calmar ranks remain unchanged. Open Columns, enable Win ratio, hide a metric and move CAGR / annualized left. Choose a matched group to show that the same columns follow you. Reset columns restores six defaults. On a phone, swipe the table sideways. Demo layout choices disappear on reload; real-library choices are local to the browser.
+**New table controls:** in All runs, click the Return column heading twice. The display switches ascending then descending while Calmar ranks remain unchanged. Drag the Calmar heading before Return. Open Columns, enable Win ratio, hide a metric and drag the CAGR / annualized handle upward. Open Rank by to show the higher/lower-is-better guidance. Choose a matched group to show that the same columns follow you. Reset columns restores six defaults. On a phone, swipe the table sideways. Demo layout choices disappear on reload; real-library choices are local to the browser.
 
 Start `npm run preview` and open the printed URL ending in `?demo=1`. The purple banner and record labels identify fictional data.
 

diff --git a/CHANGELOG.md b/CHANGELOG.md
@@ -1,5 +1,12 @@
 # Changelog
 
+## 0.6.1 — 2026-09-13
+
+- Replace the full-width column panel and repeated table instructions with a compact Columns menu. Remove visible field counts and duplicate ranking-direction text.
+- Move higher/lower-is-better guidance into the Rank by menu.
+- Drag optional table headings horizontally, or use the column menu's vertical drag handles. Checkboxes, reset, keyboard ordering and shared local preferences remain available.
+- Show a lifted drag preview and insertion marker; support cancellation, edge scrolling, focus retention and phone-sized menus. Dragging leaves financial ranks and source records intact.
+
 ## 0.6.0 — 2026-09-13
 
 - Align chart/index metric labels and values in compact tiles; pair long settings on one edge and stack them on phones. Match library metric baselines and numeric table headings throughout the dashboard.
